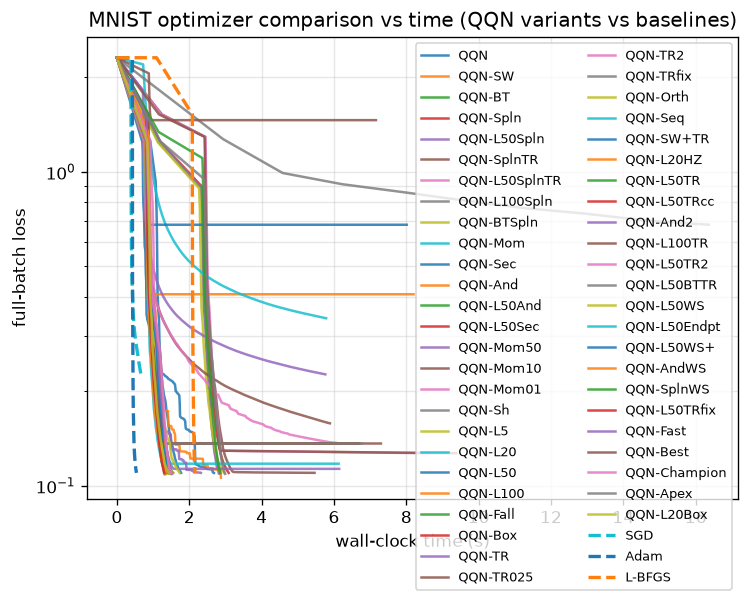
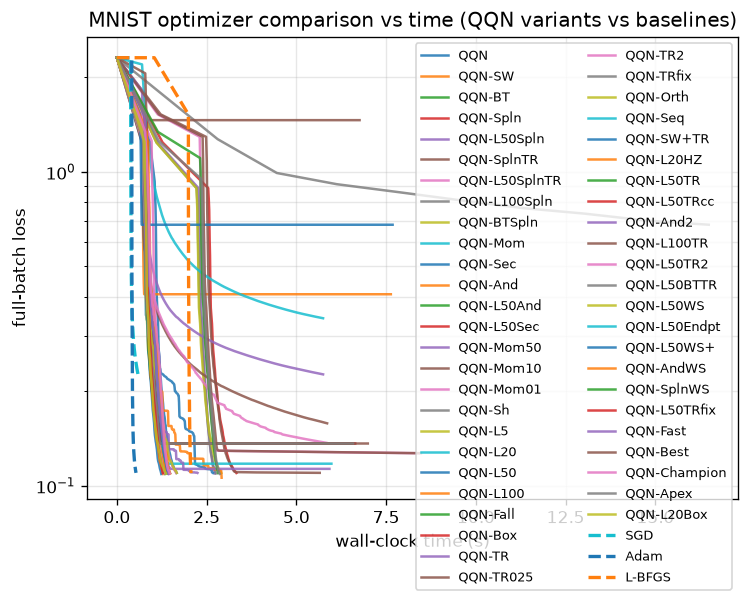
wip

diff --git a/qqn_jax/solver.py b/qqn_jax/solver.py
@@ -217,12 +217,6 @@ class QQN:
         #    The "direction" handed to the line search is the path itself,
         #    parameterized so that step size ``t`` traces d(t). The search
         #    walks the curve directly; each probe ``x + d(t)`` is a state.
-        def path_value_and_grad(t, *inner_args):
-            d = quadratic_path(t, grad_dir, qn_dir)
-            return self._plain_value_and_grad(
-                jax.tree_util.tree_map(lambda p, dd: p + dd, params, d),
-                *inner_args,
-            )
 
         res = self._ls(
             self._plain_value_and_grad,
@@ -245,7 +239,10 @@ class QQN:
 
         # Recompute aux at the accepted point if needed.
         if self.has_aux:
-            (_, aux), _ = self._value_and_grad(new_params, *args)
+            # We already have new_value/new_grad from the line search; only the
+            # aux is missing. Call ``fun`` directly (no grad) to avoid a second
+            # backward pass per iteration.
+            _, aux = self.fun(new_params, *args)
         else:
             aux = None
 
@@ -292,6 +289,11 @@ class QQN:
         # and driving the adaptive radius to shrink exactly when it should not.
         # We floor the predicted reduction at the honest first-order model,
         # which is non-negative whenever the step descends along the path.
+        # KNOWN ISSUE: this floor (1e-3·|linear_term|) deflates ρ near
+        # convergence and is a contributing factor to the documented adaptive
+        # trust-region stall on deep-memory stacks (see docs/results.md).
+        # Do not treat the adaptive TR as production-ready until this is
+        # reconciled with the chord/arc-length mismatch in regions.py.
         pred_reduction = jnp.maximum(raw_pred, jnp.abs(linear_term) * 1e-3)
         info = RegionInfo(
             params=params,

diff --git a/qqn_jax/regions.py b/qqn_jax/regions.py
@@ -185,7 +185,8 @@ def TrustRegion(
     eps = 1e-12
 
     def init(params):
-        return TrustRegionState(radius=jnp.asarray(radius, dtype=jnp.float32))
+        dtype = jax.tree_util.tree_leaves(params)[0].dtype
+        return TrustRegionState(radius=jnp.asarray(radius, dtype=dtype))
 
     def project(params, candidate, state):
         step = _tree_sub(candidate, params)
@@ -292,6 +293,10 @@ def resolve_region(region: Optional[Region]) -> Region:
     return IdentityRegion() if region is None else region
 
 
+# Backwards-compat alias used in docstrings/specs.
+RegionState = Any
+
+
 __all__ = [
     "Region",
     "RegionInfo",
@@ -305,6 +310,3 @@ __all__ = [
     "Sequential",
     "resolve_region",
 ]
-
-# Backwards-compat alias used in docstrings/specs.
-RegionState = Any

diff --git a/qqn_jax/oracles.py b/qqn_jax/oracles.py
@@ -383,9 +383,17 @@ def Fallback(oracles: Sequence[Oracle]) -> Oracle:
                 chosen = d
                 chosen_valid = valid
             else:
+                # Order-critical: snapshot chosen_valid BEFORE the OR-update so
+                # we keep the *first* valid direction. Reordering these three
+                # lines silently breaks the fallback priority.
                 take_prev = chosen_valid
                 chosen = jnp.where(take_prev, chosen, d)
                 chosen_valid = chosen_valid | valid
+        # Terminal safety net: if *every* oracle produced an invalid (uphill /
+        # non-finite / zero) direction, fall back to steepest descent so the
+        # path's t=1 endpoint can never be a non-descent or NaN direction.
+        neg_grad = tree_negative(grad)
+        chosen = jnp.where(chosen_valid, chosen, neg_grad)
         return chosen, tuple(new_states)
 
     def update(state, info):

diff --git a/qqn_jax/lbfgs.py b/qqn_jax/lbfgs.py
@@ -71,8 +71,12 @@ def update_lbfgs_history(
     ys = jnp.vdot(y, s)
     yy = jnp.vdot(y, y)
 
+    # Relative curvature guard: an absolute 1e-10 floor is below float32
+    # resolution once ‖y‖‖s‖ is even moderately scaled, so it spuriously
+    # admits near-zero-curvature pairs. Anchor to the Cauchy-Schwarz scale.
+    ss = jnp.vdot(s, s)
     eps = jnp.asarray(1e-10, dtype=params.dtype)
-    valid = ys > eps
+    valid = ys > eps * jnp.sqrt(yy * ss + eps)
 
     # Roll buffers to make room at index 0 (most recent first).
     new_s = jnp.where(

diff --git a/qqn_jax/types.py b/qqn_jax/types.py
@@ -7,7 +7,11 @@ shapes and dtypes are documented and (optionally) runtime-checkable.
 from typing import Any, Callable, Tuple
 
 import chex
-from jaxtyping import Array, Float, Scalar
+from jaxtyping import Array, Float
+
+# ``jaxtyping.Scalar`` was removed in recent releases; a 0-d float array is
+# the canonical replacement.
+Scalar = Float[Array, ""]
 
 # A flat parameter / gradient vector.
 Params = Float[Array, " n"]

diff --git a/qqn_jax/__init__.py b/qqn_jax/__init__.py
@@ -11,6 +11,7 @@ gradient and quasi-Newton directions.
 
 from qqn_jax.solver import QQN, QQNState
 from qqn_jax.line_search import strong_wolfe_search, backtracking_search
+from qqn_jax.spline_search import spline_wrap
 from qqn_jax.oracles import (
     Oracle,
     OracleInfo,
@@ -38,7 +39,7 @@ __all__ = [
     "QQNState",
     "strong_wolfe_search",
     "backtracking_search",
-    "spline_search",
+    "spline_wrap",
     "Oracle",
     "OracleInfo",
     "LBFGSOracle",

diff --git a/qqn_jax/line_search.py b/qqn_jax/line_search.py
@@ -140,7 +140,6 @@ def backtracking_search(
 
     def ext_cond(carry):
         t, i, val, _g, _p = carry
-        next_t = t * grow
         # Predict whether the larger step is still admissible: we only keep
         # growing while the current point already satisfies Armijo (so the
         # bracket is healthy) and we have extrapolation budget left.